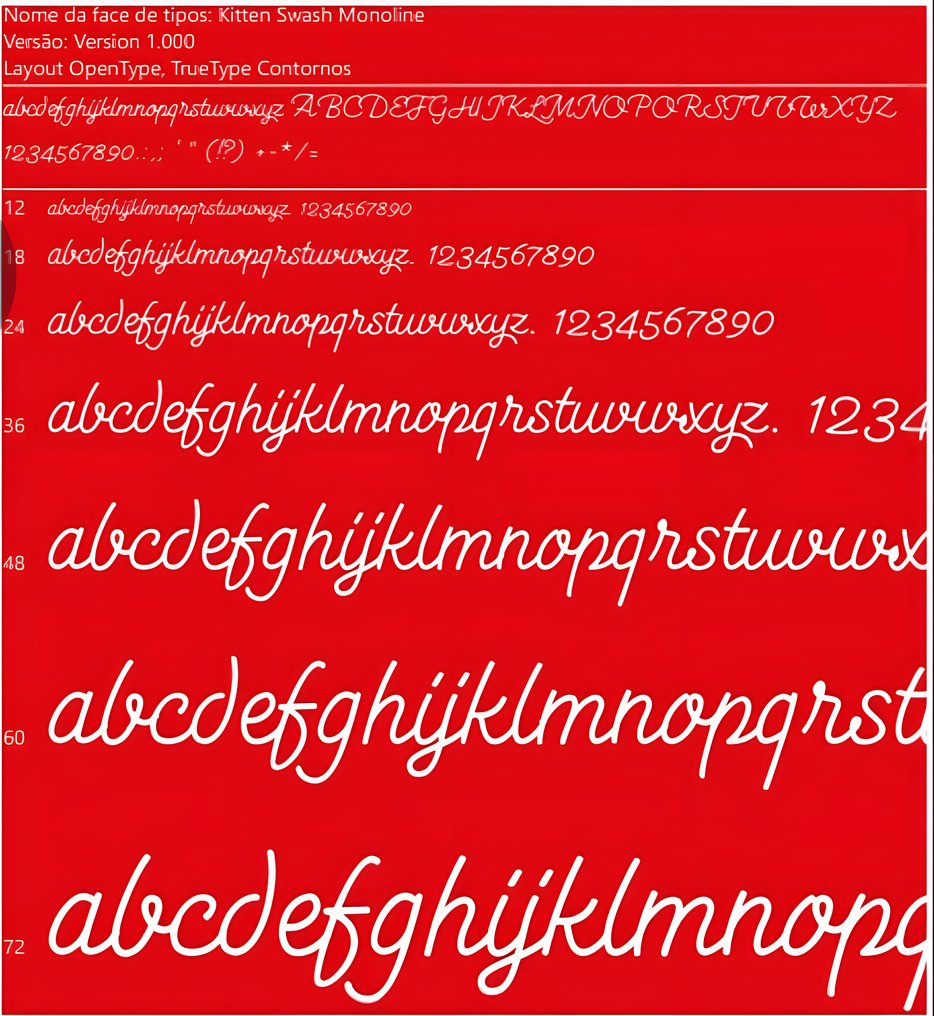
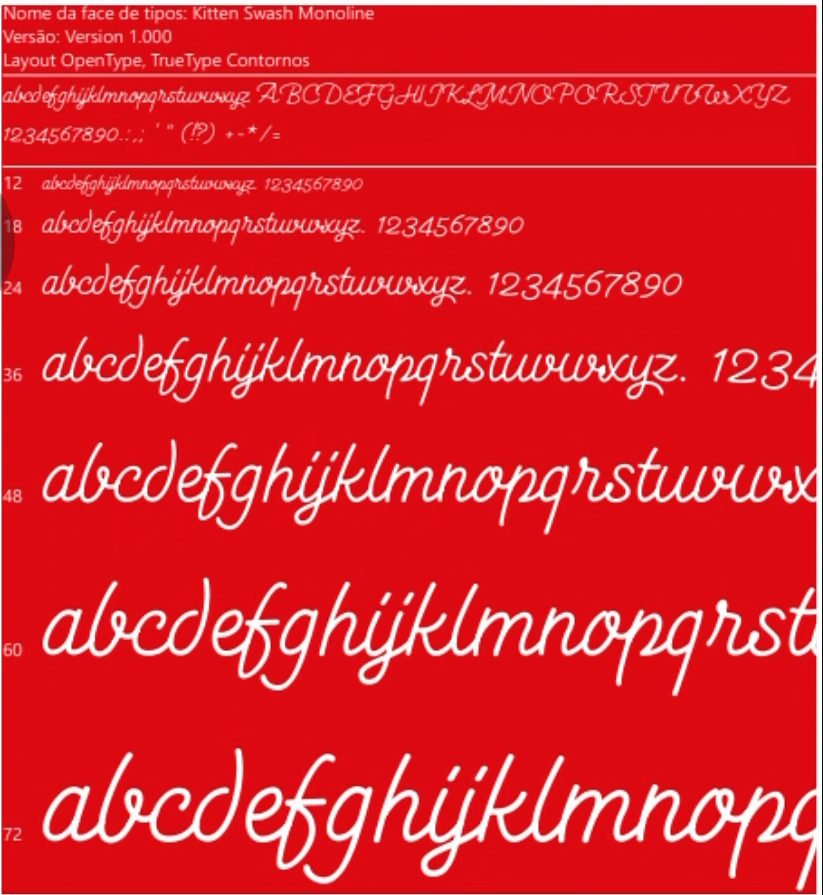
Correções: layout do Sobre mim, dica do Case 1 e Tipografia sem IA
- Remove a chave "}" sobrando depois do @media do topo, que fazia o
  navegador descartar a regra .about (Sobre mim em uma coluna só no
  computador).
- Case 1: a dica dizia "toque para ampliar", mas nos celulares com vídeo
  o toque pausa/continua.
- Tipografia: volta às artes anteriores ao 2e4d0e6. A ampliação com
  Real-ESRGAN altera letras; a avaliação de 14/11 reprovou o método.

diff --git a/site/index.html b/site/index.html
@@ -125,7 +125,6 @@ section{padding-block:clamp(70px,10vw,120px);position:relative;overflow:hidden;o
   .hero-meta{flex-direction:column;justify-content:center}
   .roles,.socials{justify-content:center}
 }
-}
 
 /* SOBRE MIM: nota de papel */
 .about{display:grid;grid-template-columns:1.15fr .85fr;gap:48px;align-items:center}
@@ -481,16 +480,16 @@ footer .wrap{display:flex;flex-wrap:wrap;justify-content:space-between;gap:10px}
         <p class="lead" style="margin-top:14px">A Mutti disponibilizou seu padrão de tipografia para ser seguido em todos os materiais de comunicação.</p>
       </div>
       <div class="type-grid">
-        <button class="zoom reveal" data-src="img/tipo_cursiva.jpg" aria-label="Ampliar tipografia cursiva"><img src="img/tipo_cursiva.jpg" width="934" height="1016" loading="lazy" decoding="async" alt="Folha da fonte cursiva Kitten Swash Monoline"></button>
+        <button class="zoom reveal" data-src="img/tipo_cursiva.jpg" aria-label="Ampliar tipografia cursiva"><img src="img/tipo_cursiva.jpg" width="823" height="895" loading="lazy" decoding="async" alt="Folha da fonte cursiva Kitten Swash Monoline"></button>
         <div class="type-side">
           <div class="type-block reveal">
-            <button class="zoom" data-src="img/tipo_cursiva_app.jpg" aria-label="Ampliar aplicação da cursiva"><img src="img/tipo_cursiva_app.jpg" width="1142" height="470" loading="lazy" decoding="async" alt="Fonte cursiva aplicada nas embalagens Mutti"></button>
+            <button class="zoom" data-src="img/tipo_cursiva_app.jpg" aria-label="Ampliar aplicação da cursiva"><img src="img/tipo_cursiva_app.jpg" width="1098" height="452" loading="lazy" decoding="async" alt="Fonte cursiva aplicada nas embalagens Mutti"></button>
           </div>
           <div class="type-block reveal">
             <p class="sub">Sans Serifa</p>
             <p>A empresa exigia que esse padrão fosse respeitado, garantindo uniformidade e coerência em todas as representações visuais da marca.</p>
-            <button class="zoom" data-src="img/tipo_sans.jpg" aria-label="Ampliar tipografia sans serifa"><img src="img/tipo_sans.jpg" width="1142" height="1081" loading="lazy" decoding="async" alt="Folha da fonte Rhode Bold Condensed"></button>
-            <button class="zoom" data-src="img/tipo_sans_app.jpg" aria-label="Ampliar aplicação da sans serifa"><img src="img/tipo_sans_app.jpg" width="1142" height="571" loading="lazy" decoding="async" alt="Fonte sans serifa aplicada em post da Mutti"></button>
+            <button class="zoom" data-src="img/tipo_sans.jpg" aria-label="Ampliar tipografia sans serifa"><img src="img/tipo_sans.jpg" width="802" height="759" loading="lazy" decoding="async" alt="Folha da fonte Rhode Bold Condensed"></button>
+            <button class="zoom" data-src="img/tipo_sans_app.jpg" aria-label="Ampliar aplicação da sans serifa"><img src="img/tipo_sans_app.jpg" width="1098" height="549" loading="lazy" decoding="async" alt="Fonte sans serifa aplicada em post da Mutti"></button>
           </div>
         </div>
       </div>
@@ -558,7 +557,7 @@ footer .wrap{display:flex;flex-wrap:wrap;justify-content:space-between;gap:10px}
             <div class="phone-dots" role="group" aria-label="Escolher vídeo"></div>
             <button type="button" class="phone-nav" data-dir="1" aria-label="Próximo vídeo">→</button>
           </div>
-          <p class="phone-hint">Arraste para o lado ou toque no celular para ampliar</p>
+          <p class="phone-hint">Arraste para o lado · toque no vídeo para pausar ou continuar</p>
         </div>
         <button class="zoom" data-src="img/case1_posts.jpg" aria-label="Ampliar posts do case 1"><img src="img/case1_posts.jpg" width="1134" height="560" loading="lazy" decoding="async" alt="Posts em tons de laranja sobre a NR-1"></button>
       </article>
